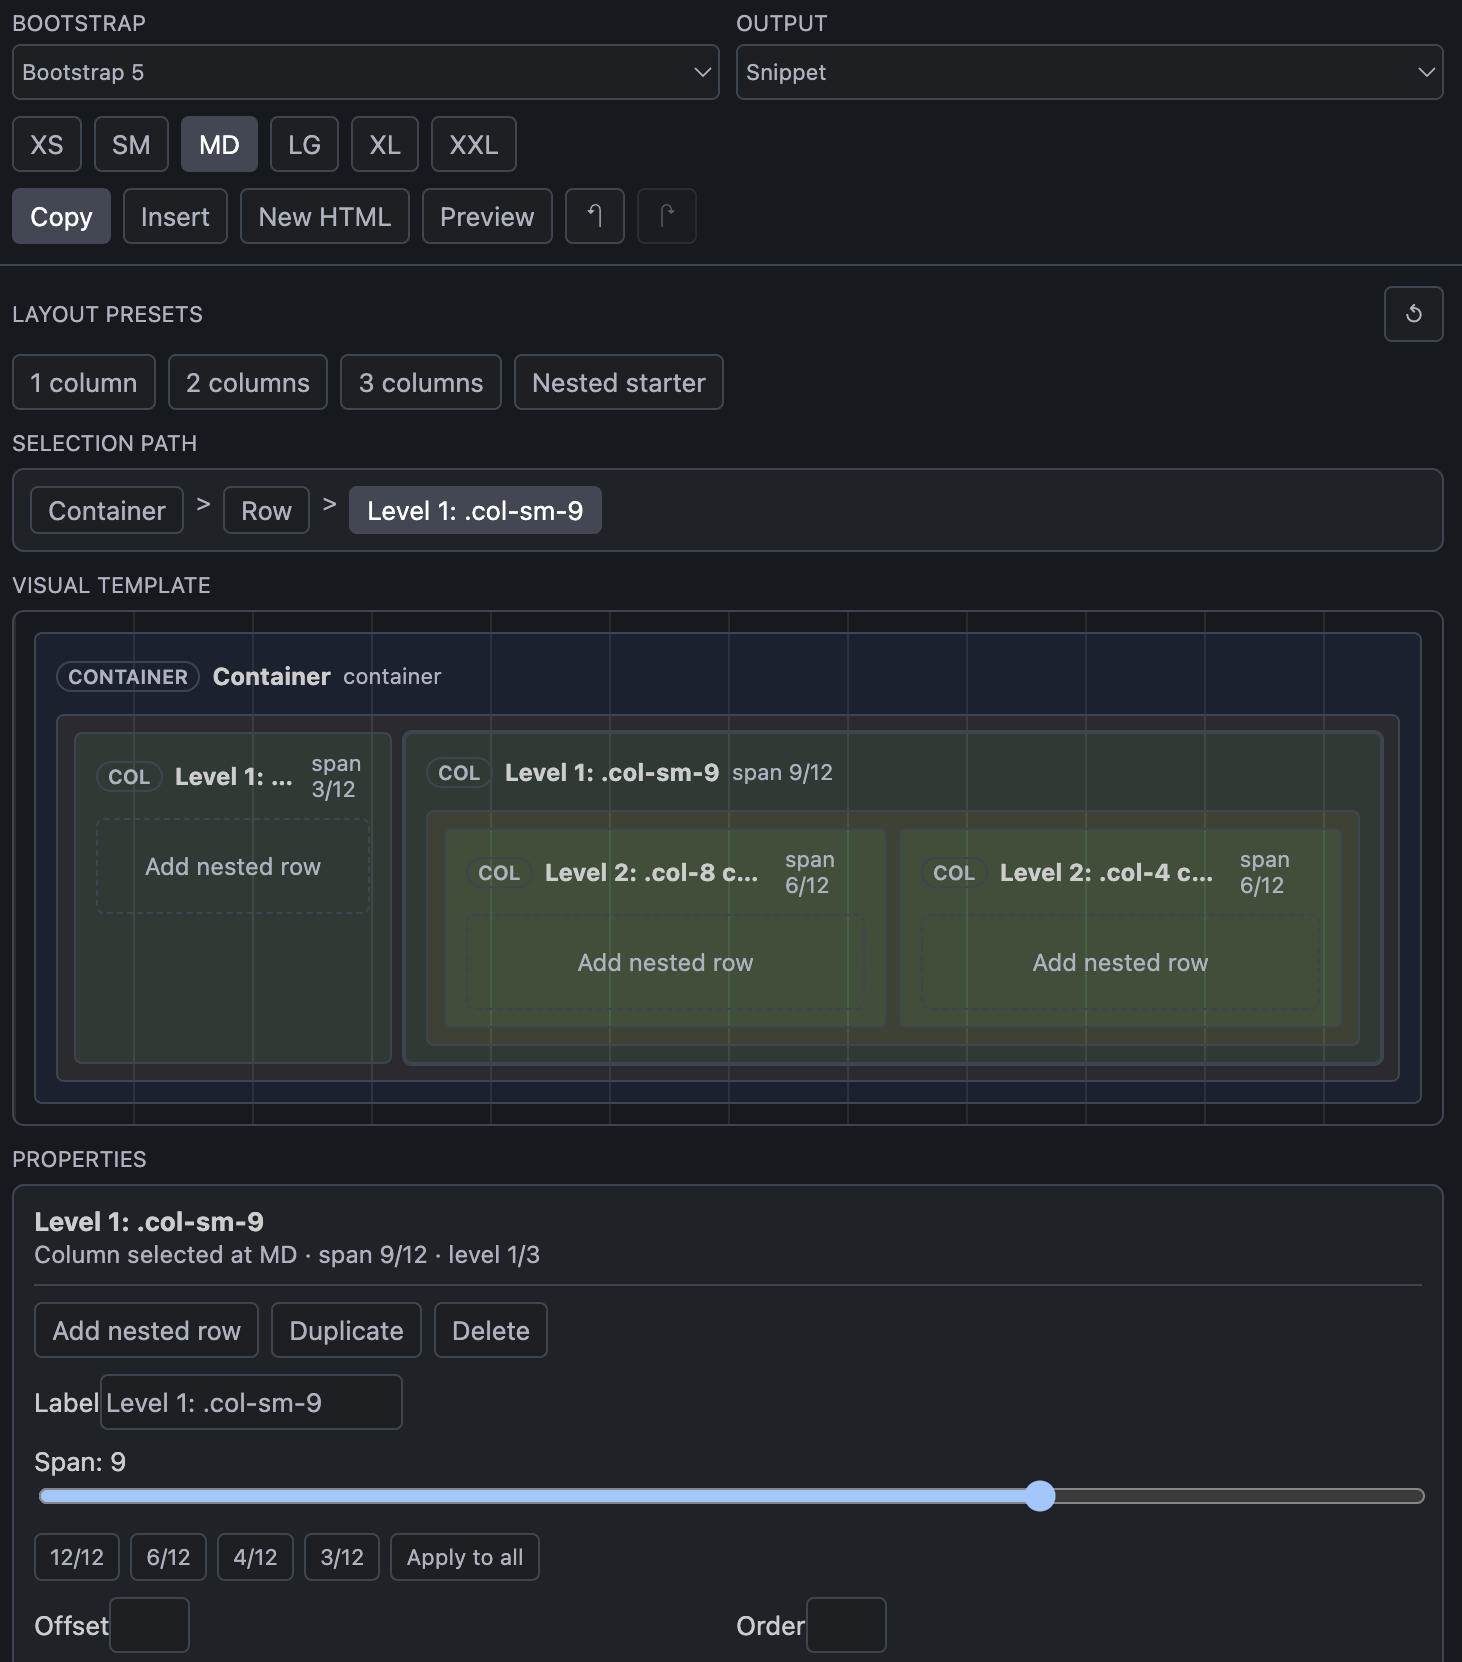
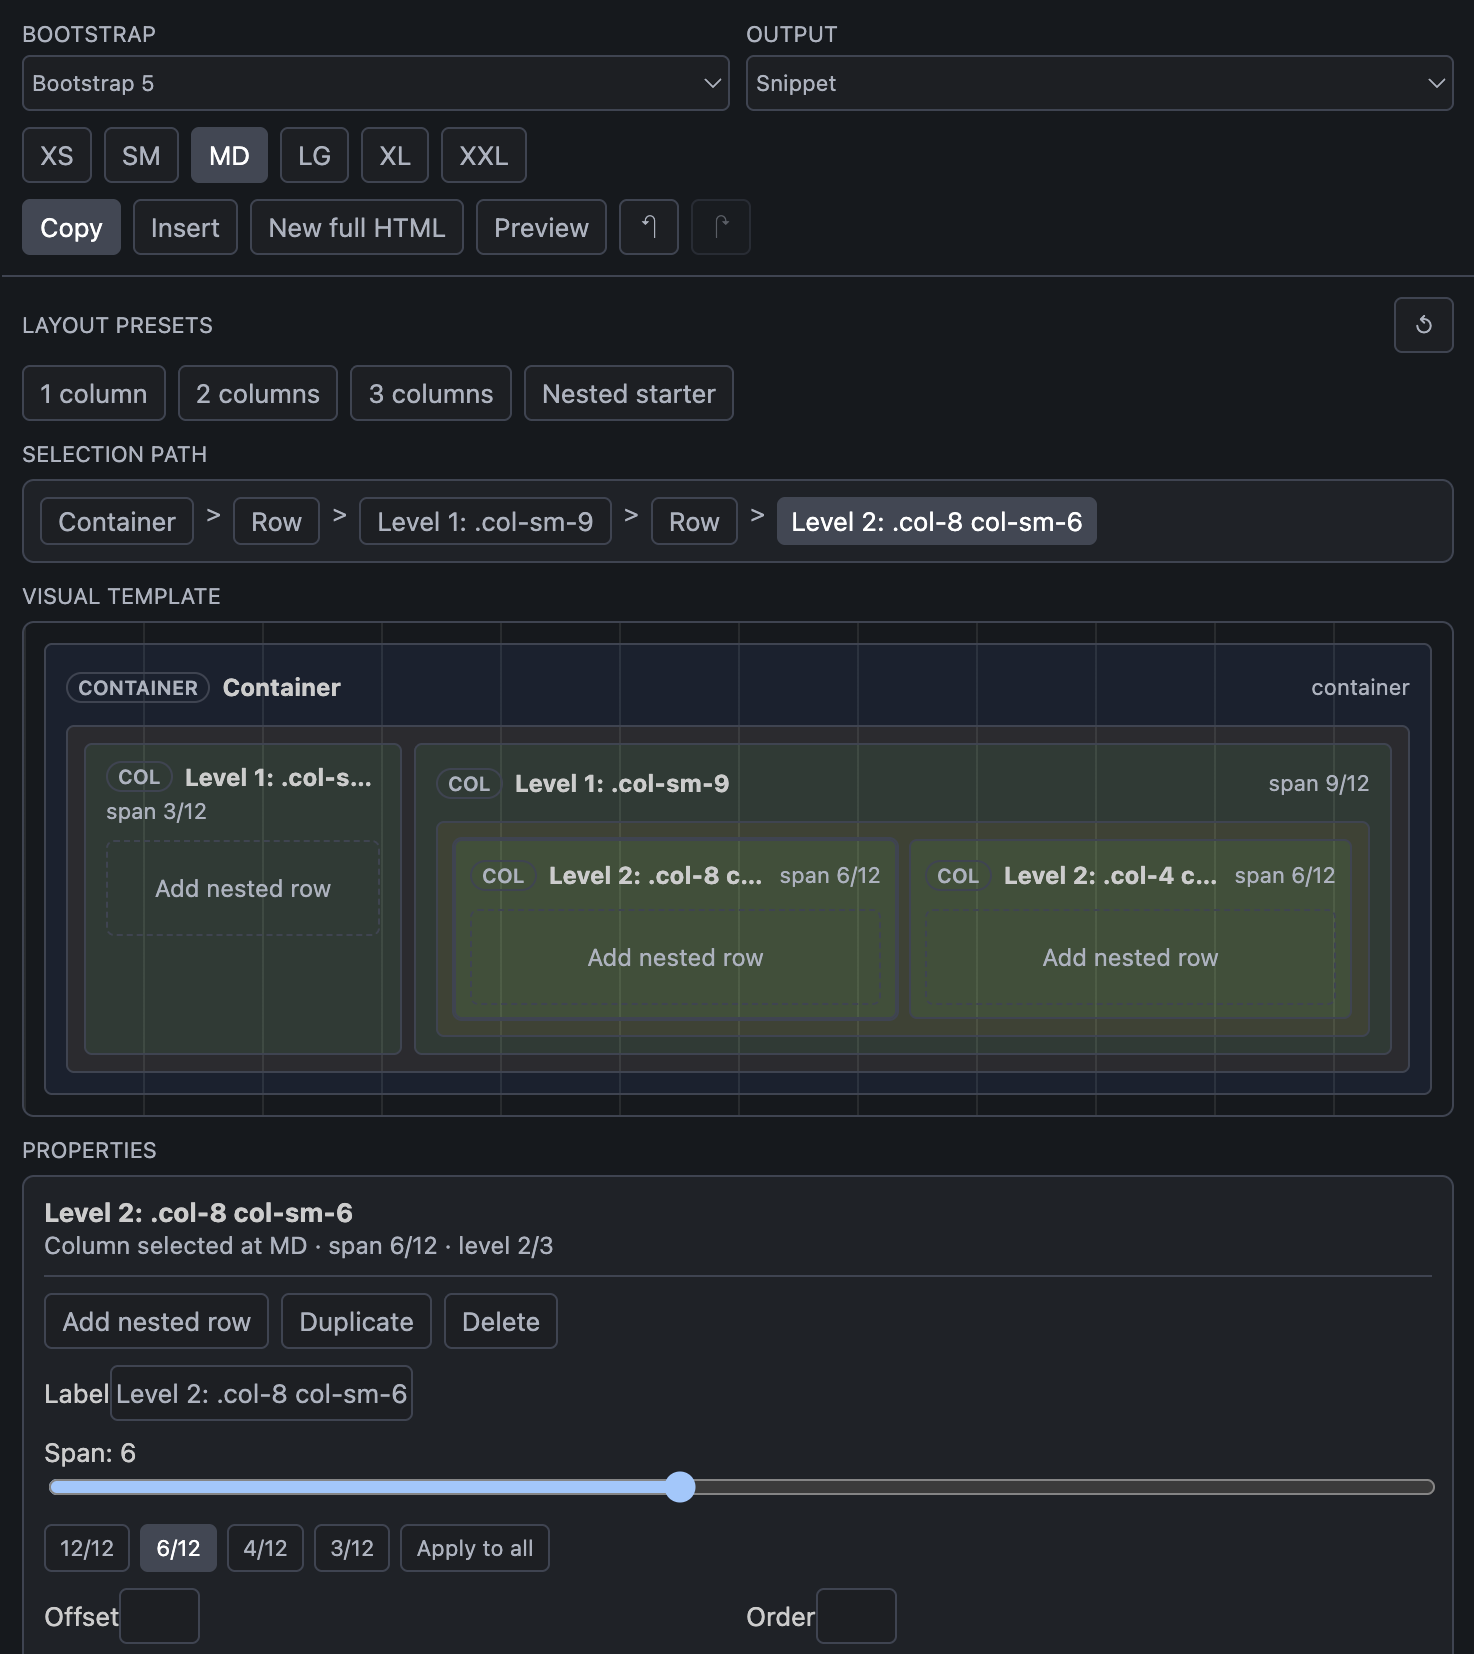
Add styling adjustments for webview elements and update media assets

diff --git a/src/webviewContent.ts b/src/webviewContent.ts
@@ -182,6 +182,8 @@ export function getWebviewHtml(webview: vscode.Webview, settings?: BootFrameSett
 
 		.bf-node {
 			position: relative;
+			min-width: 0;
+			overflow: hidden;
 			border: 1px solid var(--bf-border);
 			border-radius: 4px;
 			transition: border-color 120ms ease, box-shadow 120ms ease, background 120ms ease;
@@ -199,14 +201,17 @@ export function getWebviewHtml(webview: vscode.Webview, settings?: BootFrameSett
 
 		.bf-row {
 			display: grid;
-			grid-template-columns: repeat(12, minmax(18px, 1fr));
+			grid-template-columns: repeat(12, minmax(0, 1fr));
 			gap: 6px;
+			min-width: 0;
 			min-height: 70px;
 			padding: 8px;
+			overflow: hidden;
 			background: rgba(245, 158, 11, 0.08);
 		}
 
 		.bf-col {
+			min-width: 0;
 			min-height: 56px;
 			padding: 8px 10px;
 			background: rgba(34, 197, 94, 0.1);
@@ -226,8 +231,10 @@ export function getWebviewHtml(webview: vscode.Webview, settings?: BootFrameSett
 			display: flex;
 			align-items: center;
 			justify-content: space-between;
-			gap: 8px;
+			gap: 6px;
+			min-width: 0;
 			min-height: 22px;
+			overflow: hidden;
 			color: var(--vscode-foreground);
 			font-size: 12px;
 		}
@@ -235,11 +242,16 @@ export function getWebviewHtml(webview: vscode.Webview, settings?: BootFrameSett
 		.node-title {
 			display: flex;
 			align-items: center;
-			gap: 6px;
+			flex: 1 1 auto;
+			flex-wrap: wrap;
+			gap: 3px 6px;
 			min-width: 0;
+			overflow: hidden;
 		}
 
 		.node-title strong {
+			flex: 1 1 64px;
+			min-width: 0;
 			overflow: hidden;
 			text-overflow: ellipsis;
 			white-space: nowrap;
@@ -256,12 +268,18 @@ export function getWebviewHtml(webview: vscode.Webview, settings?: BootFrameSett
 			text-transform: uppercase;
 		}
 
-		.node-label span:last-child {
+		.node-meta {
+			flex: 0 1 auto;
+			min-width: 0;
+			overflow: hidden;
+			text-overflow: ellipsis;
+			white-space: nowrap;
 			color: var(--bf-muted);
 			font-size: 11px;
 		}
 
 		.nested {
+			min-width: 0;
 			margin-top: 8px;
 		}
 
@@ -269,7 +287,9 @@ export function getWebviewHtml(webview: vscode.Webview, settings?: BootFrameSett
 			display: flex;
 			align-items: center;
 			justify-content: center;
+			min-width: 0;
 			min-height: 48px;
+			overflow: hidden;
 			border: 1px dashed var(--bf-border);
 			border-radius: 4px;
 			color: var(--bf-muted);
@@ -278,7 +298,11 @@ export function getWebviewHtml(webview: vscode.Webview, settings?: BootFrameSett
 
 		.empty-action {
 			width: 100%;
+			min-width: 0;
 			min-height: 48px;
+			overflow: hidden;
+			text-overflow: ellipsis;
+			white-space: nowrap;
 			border-style: dashed;
 			color: var(--bf-muted);
 			background: transparent;
@@ -287,6 +311,46 @@ export function getWebviewHtml(webview: vscode.Webview, settings?: BootFrameSett
 		.empty-action:hover {
 			color: var(--vscode-foreground);
 			border-color: var(--bf-focus);
+		}
+
+		.bf-node[data-depth="2"] .bf-row,
+		.bf-node[data-depth="3"] .bf-row {
+			gap: 4px;
+			min-height: 58px;
+			padding: 6px;
+		}
+
+		.bf-node[data-depth="2"].bf-col,
+		.bf-node[data-depth="3"].bf-col {
+			min-height: 48px;
+			padding: 6px 7px;
+		}
+
+		.bf-node[data-depth="2"] .nested,
+		.bf-node[data-depth="3"] .nested {
+			margin-top: 6px;
+		}
+
+		.bf-node[data-depth="3"] .node-label {
+			gap: 4px;
+			min-height: 18px;
+			font-size: 11px;
+		}
+
+		.bf-node[data-depth="3"] .node-kind {
+			padding: 0 4px;
+			font-size: 9px;
+		}
+
+		.bf-node[data-depth="3"] .node-meta {
+			font-size: 10px;
+		}
+
+		.bf-node[data-depth="3"] .empty,
+		.bf-node[data-depth="3"] .empty-action {
+			min-height: 38px;
+			padding: 0 5px;
+			font-size: 11px;
 		}
 
 		.resize-handle {
@@ -977,6 +1041,7 @@ export function getWebviewHtml(webview: vscode.Webview, settings?: BootFrameSett
 			function renderNode(node, depth) {
 				const element = document.createElement('div');
 				element.dataset.id = node.id;
+				element.dataset.depth = String(Math.min(Math.max(0, Math.floor(depth / 2)), 3));
 				element.className = 'bf-node bf-' + node.kind + (node.id === state.selectedId ? ' selected' : '');
 				element.addEventListener('click', function (event) {
 					event.stopPropagation();
@@ -1044,6 +1109,7 @@ export function getWebviewHtml(webview: vscode.Webview, settings?: BootFrameSett
 				title.textContent = getNodeDisplayName(node);
 
 				const details = document.createElement('span');
+				details.className = 'node-meta';
 				details.textContent = meta;
 
 				titleGroup.append(kind, title, details);
